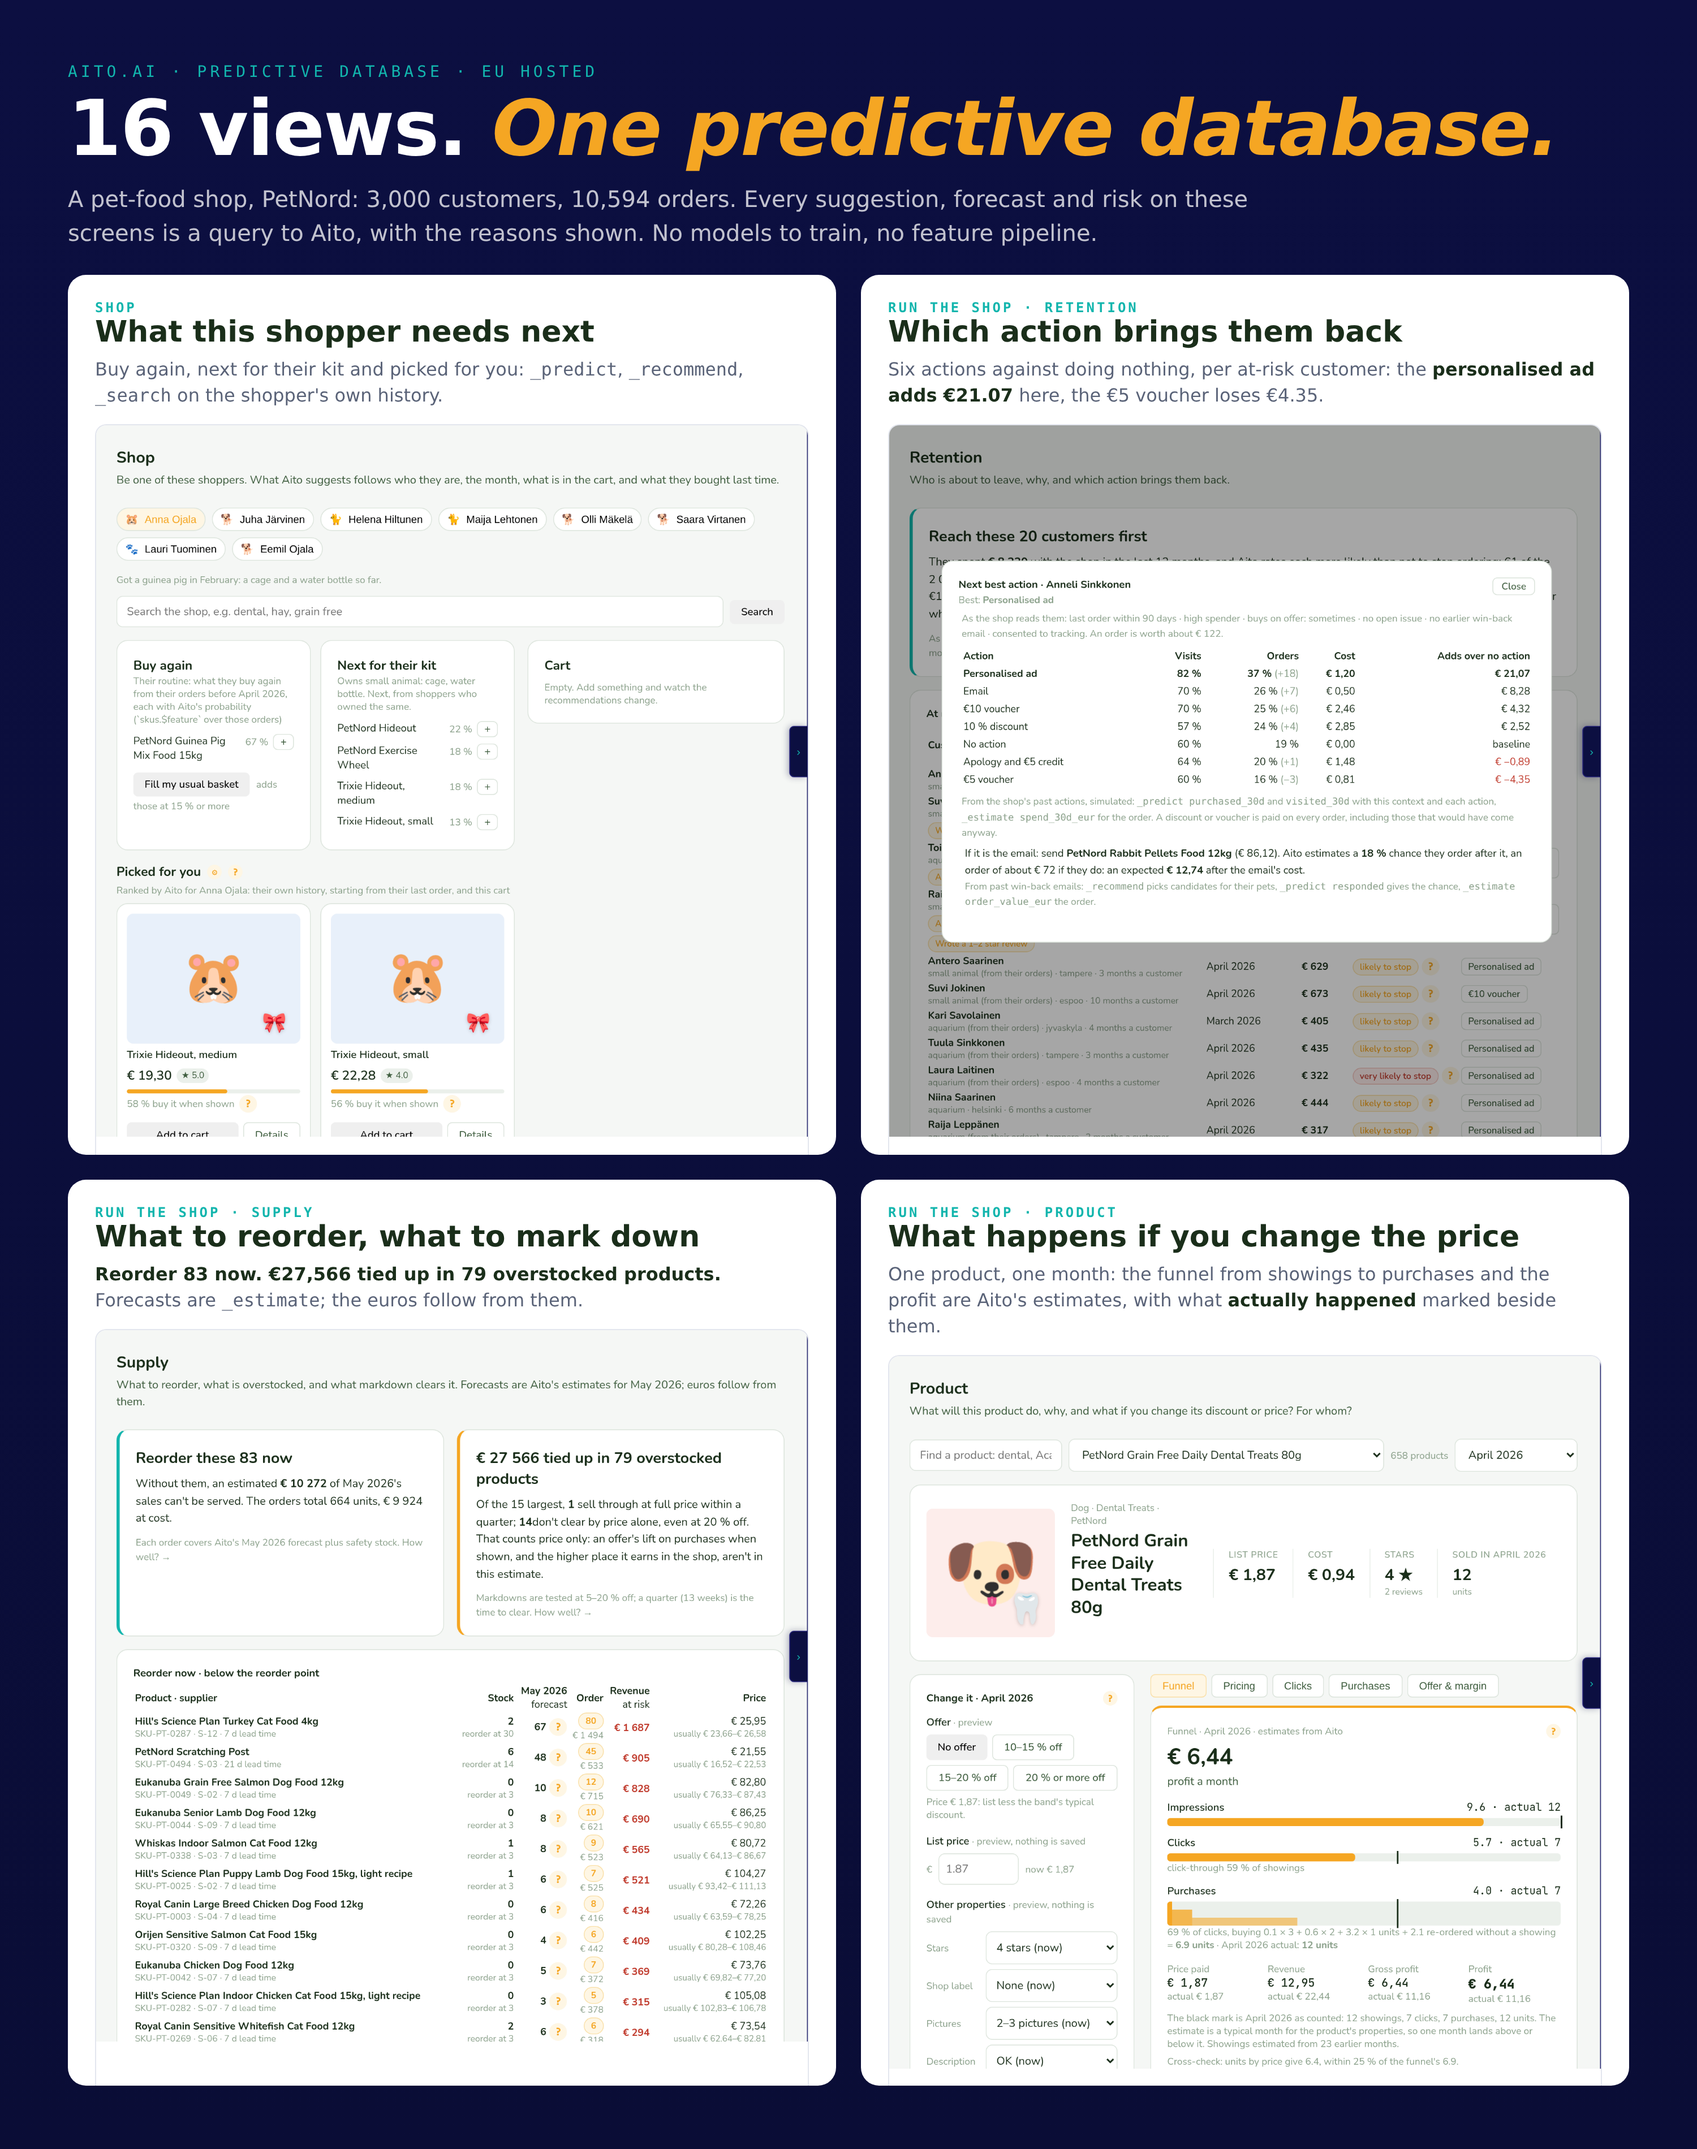
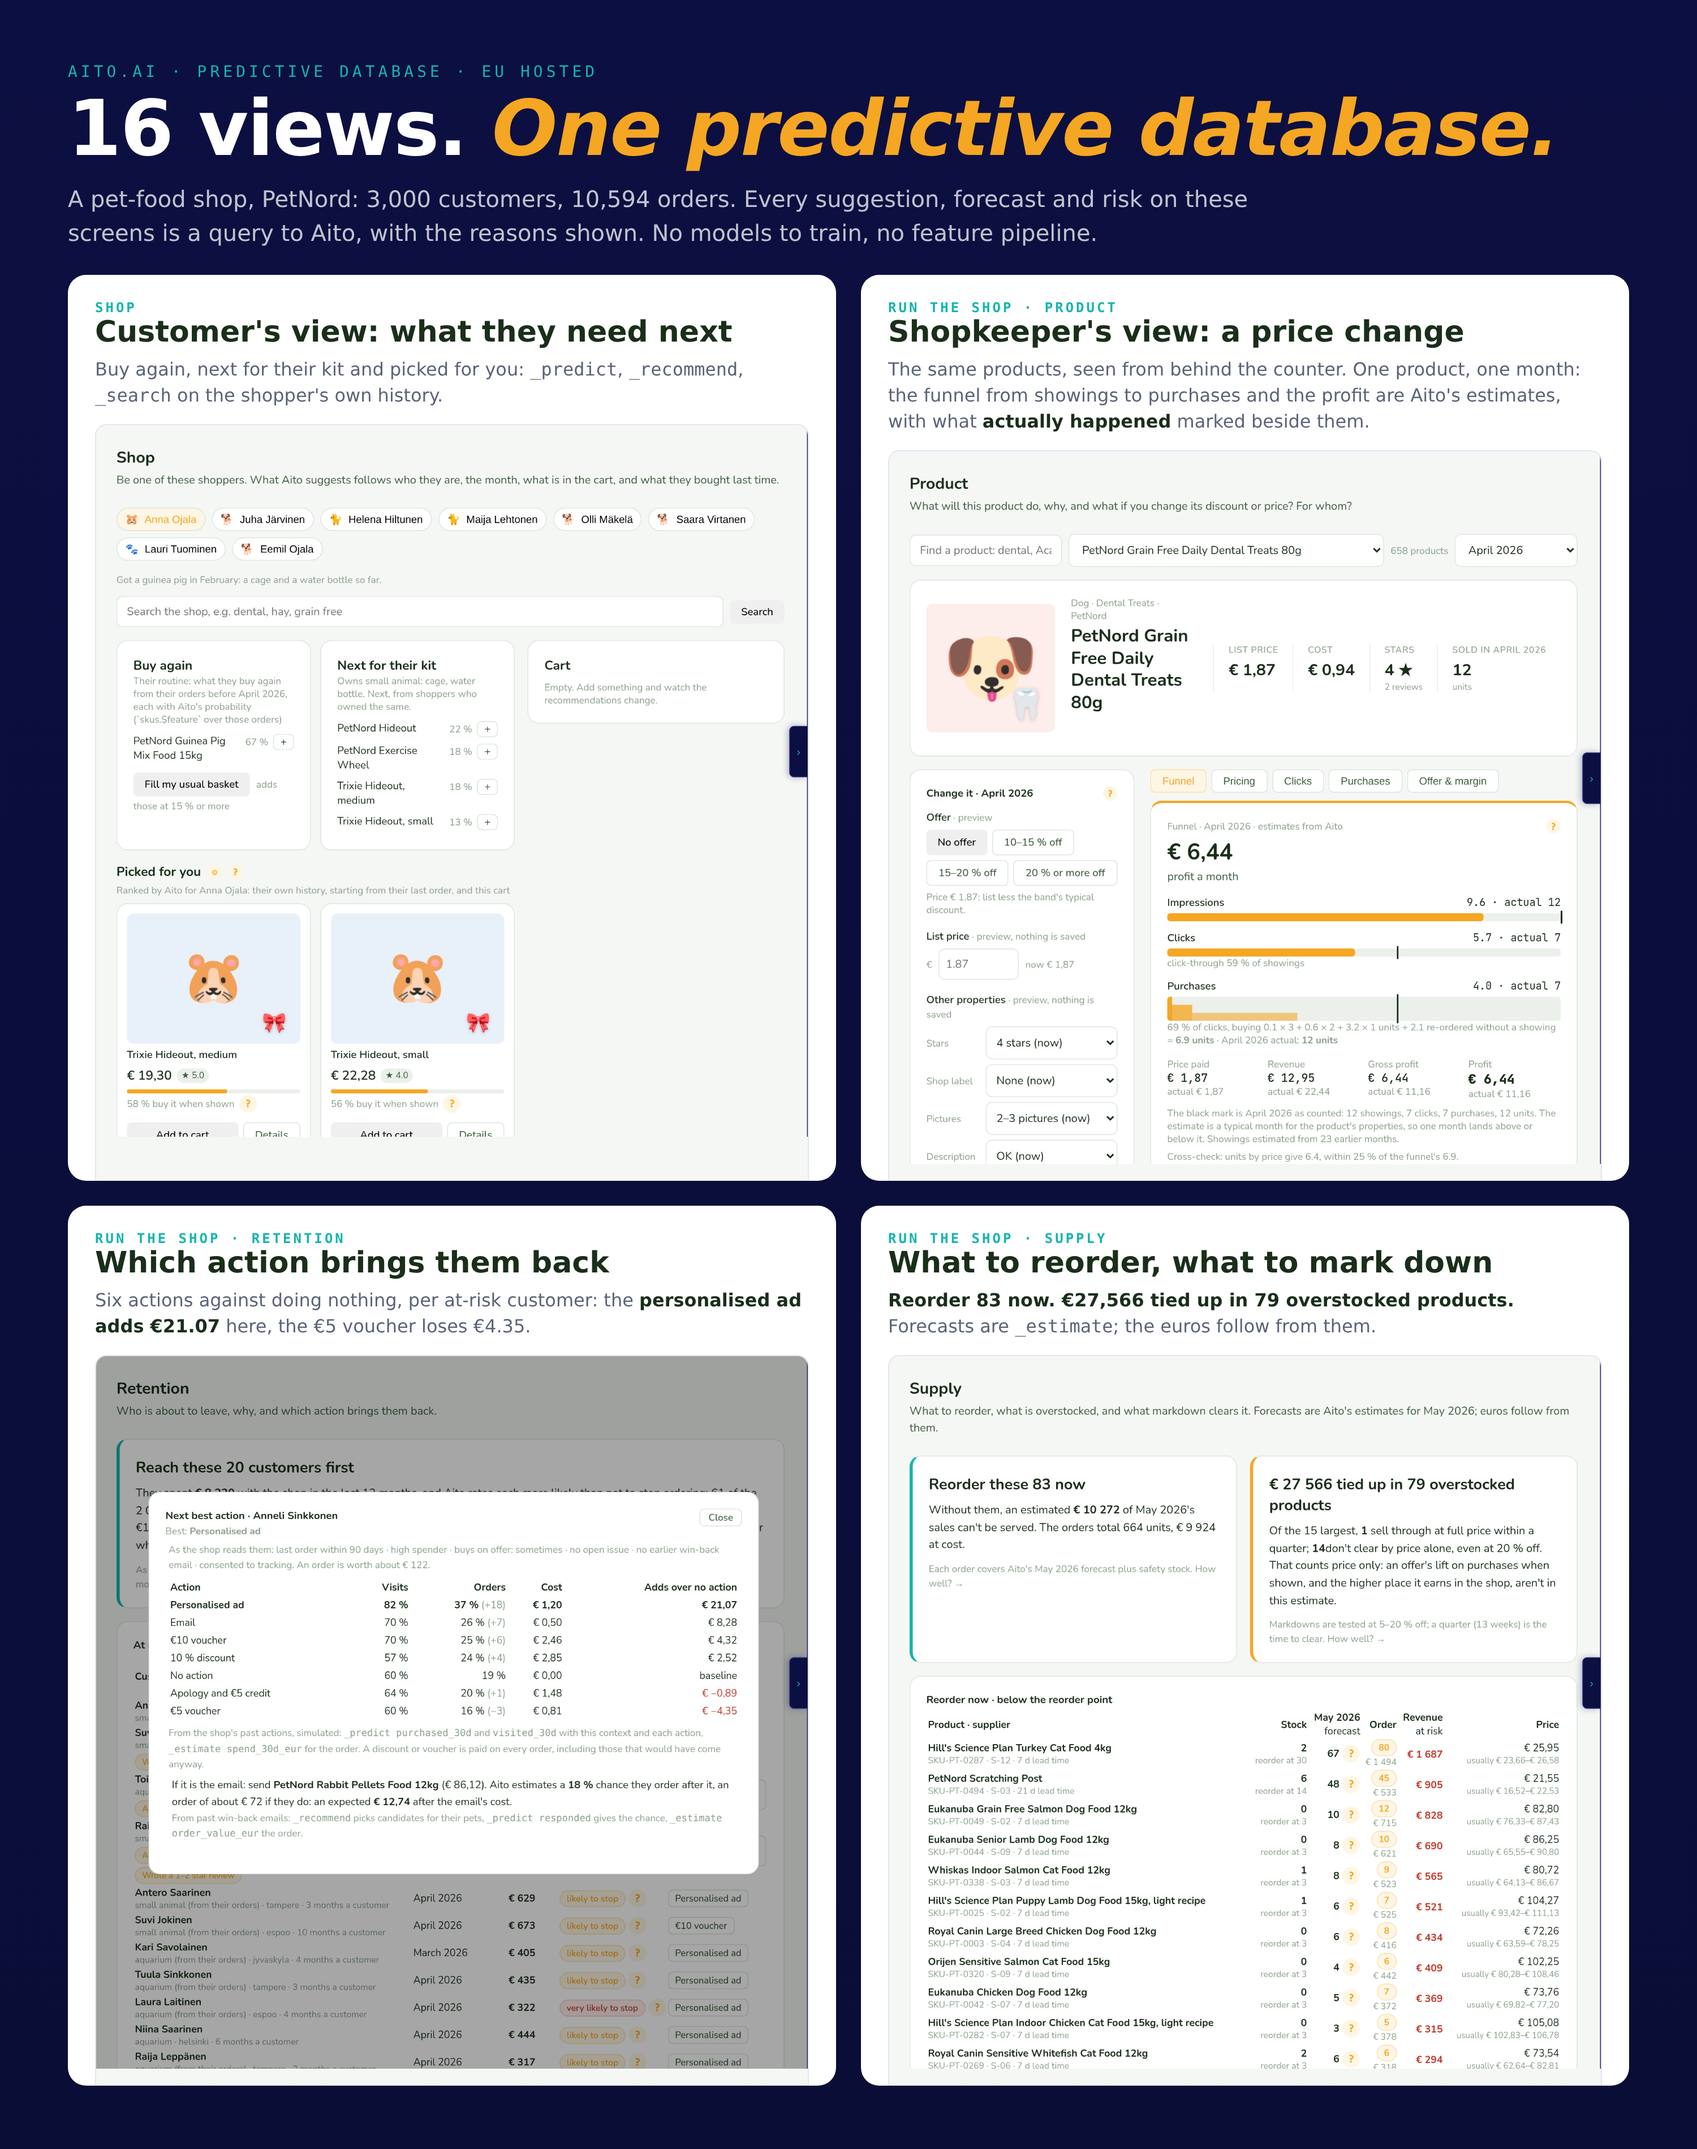
Teaser 3b: Shop and Product side by side, customer's and shopkeeper's view of the same products
Claude-Session: https://claude.ai/code/session_01JNKA6ovmTRy9Lh2Yg1gUpL

Changed region(s): [[0.031, 0.1242, 0.961, 0.9626], [0.527, 0.6521, 0.93, 0.9626]]

diff --git a/assets/teaser-3b.html b/assets/teaser-3b.html
@@ -19,7 +19,7 @@
   .card .group { font:600 12px "JetBrains Mono",monospace; letter-spacing:2px; text-transform:uppercase; color:var(--teal); }
   .card p { margin:6px 0 14px; font-size:16px; line-height:1.45; color:var(--muted); }
   .card p strong { color:var(--ink); }
-  .shot { flex:1; overflow:hidden; border-radius:10px 10px 0 0; border:1px solid #E3E6EE; border-bottom:0; position:relative; }
+  .shot { flex:1; background:#F5F7F5; overflow:hidden; border-radius:10px 10px 0 0; border:1px solid #E3E6EE; border-bottom:0; position:relative; }
   /* crop the 1440 px wide capture to its main column (no sidebar, no Aito panel) */
   .shot img { position:absolute; left:-195px; top:-52px; width:1022px; }
   .foot { font-size:14px; color:rgba(255,255,255,.6); display:flex; justify-content:space-between; }
@@ -35,9 +35,14 @@
   </div>
   <div class="grid">
     <div class="card">
-      <div class="group">Shop</div><h2>What this shopper needs next</h2>
+      <div class="group">Shop</div><h2>Customer's view: what they need next</h2>
       <p>Buy again, next for their kit and picked for you: <code>_predict</code>, <code>_recommend</code>, <code>_search</code> on the shopper's own history.</p>
       <div class="shot"><img src="teaser-3b/shop.png" alt="Shop view"></div>
+    </div>
+    <div class="card">
+      <div class="group">Run the shop · Product</div><h2>Shopkeeper's view: a price change</h2>
+      <p>The same products, seen from behind the counter. One product, one month: the funnel from showings to purchases and the profit are Aito's estimates, with what <strong>actually happened</strong> marked beside them.</p>
+      <div class="shot"><img src="teaser-3b/product.png" alt="Product view"></div>
     </div>
     <div class="card">
       <div class="group">Run the shop · Retention</div><h2>Which action brings them back</h2>
@@ -48,11 +53,6 @@
       <div class="group">Run the shop · Supply</div><h2>What to reorder, what to mark down</h2>
       <p><strong>Reorder 83 now. €27,566 tied up in 79 overstocked products.</strong> Forecasts are <code>_estimate</code>; the euros follow from them.</p>
       <div class="shot"><img src="teaser-3b/supply.png" alt="Supply view"></div>
-    </div>
-    <div class="card">
-      <div class="group">Run the shop · Product</div><h2>What happens if you change the price</h2>
-      <p>One product, one month: the funnel from showings to purchases and the profit are Aito's estimates, with what <strong>actually happened</strong> marked beside them.</p>
-      <div class="shot"><img src="teaser-3b/product.png" alt="Product view"></div>
     </div>
     </div>
   </div>
